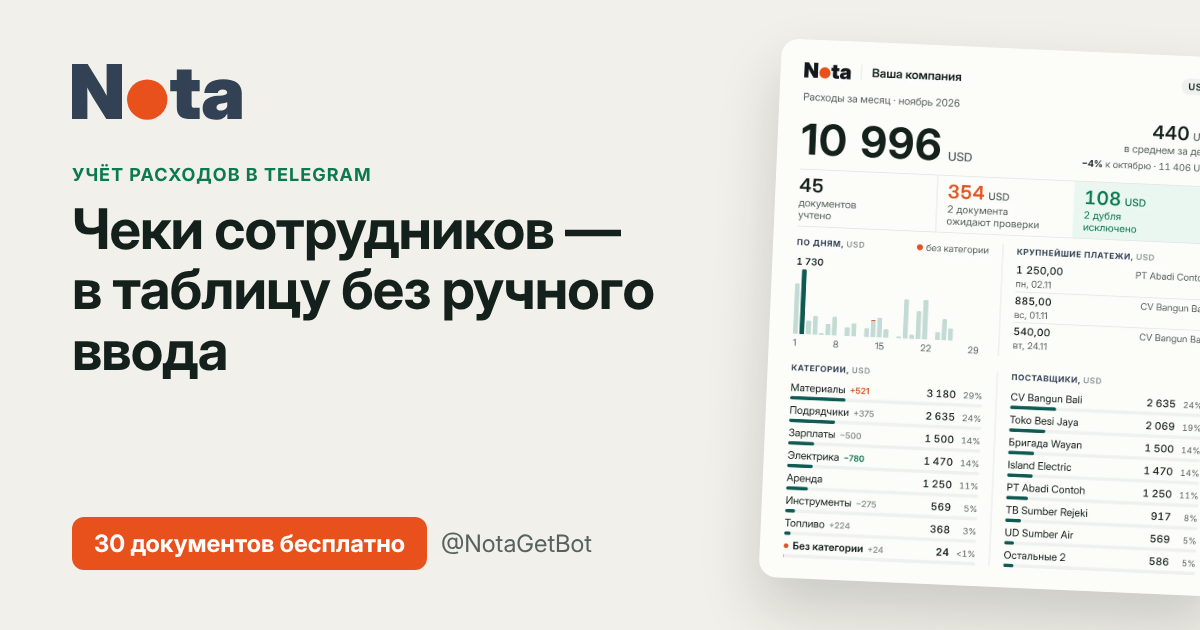
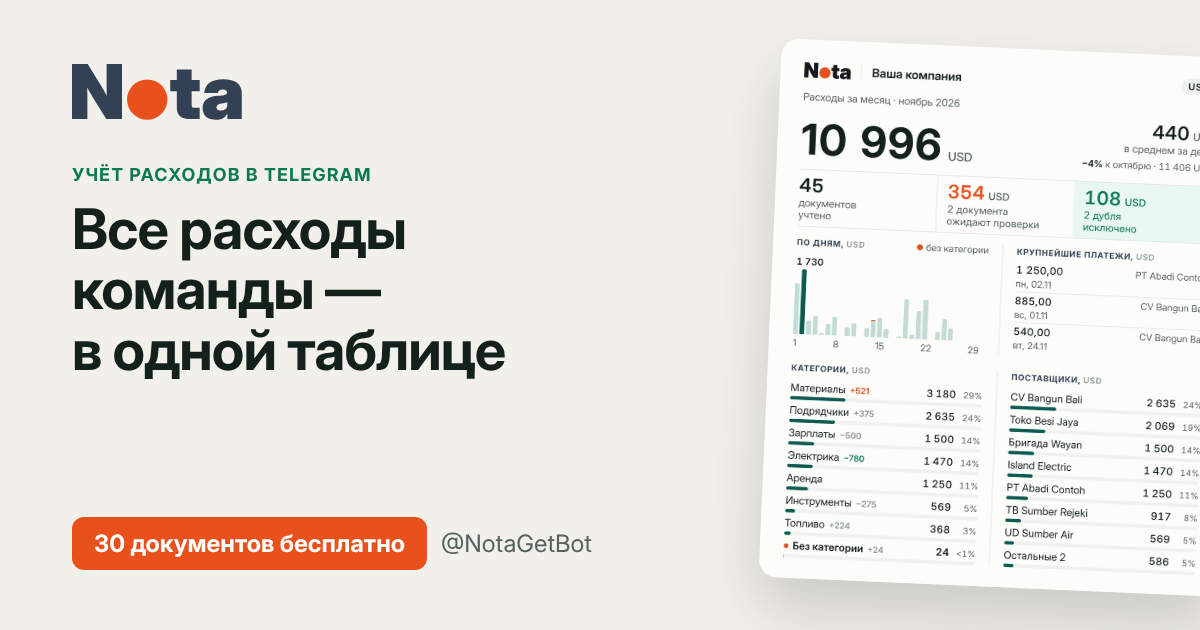
Главная: заголовок «Все расходы команды — в одной таблице», заголовок вкладки и картинка превью
Claude-Session: https://claude.ai/code/session_01L3HhR7LSGwJtypFbeUeh92

Changed region(s): [[0.0617, 0.3317, 0.555, 0.6032]]

diff --git a/nota/src/data/content-v12.ts b/nota/src/data/content-v12.ts
@@ -1,6 +1,6 @@
 // Версия 12 лендинга (22.11): два первых экрана на выбор основателя.
 //   archive — как v11 (первый экран про архив, тексты content-v11.ts);
-//   start   — новый: «Чеки сотрудников — в таблицу без ручного ввода», путь из четырёх строк, отчёт за месяц.
+//   start   — новый: «Все расходы команды — в одной таблице», путь из четырёх строк, отчёт за месяц.
 // Всё ниже блока отчёта у обоих вариантов общее (content-v11.ts). Страницы: / (start, главная с 25.11) и /archive/ (archive).
 // Решения по start — founder/landing-start-sketch (эскиз G), тесты офферов — founder/panel-offer-compare.md,
 // разбор по Impeccable — founder/landing-v12-notes.md.
@@ -10,16 +10,16 @@ import { steps, compare, data, faq, what } from './content-v11';
 export const start = {
   // Заголовок вкладки, описание для поиска и превью ссылки — по утверждённому первому экрану (25.11: новый вариант стал главной)
   meta: {
-    title: 'Nota — чеки сотрудников в Google-таблицу без ручного ввода',
+    title: 'Nota — все расходы команды в одной Google-таблице',
     description: 'Учёт расходов в Telegram. Присылайте чеки, счета и накладные лично, архивом или в рабочей группе: Nota проверит расчёты, найдёт дубли и запишет всё в вашу Google-таблицу. Отчёты каждую неделю и месяц. 30 документов бесплатно.',
-    ogAlt: 'Nota: чеки сотрудников — в таблицу без ручного ввода. Пример отчёта за месяц: 10 996 долларов, 2 дубля исключены',
+    ogAlt: 'Nota: все расходы команды — в одной таблице. Пример отчёта за месяц: 10 996 долларов, 2 дубля исключены',
     og: '/og-v12.png',
   },
   // Основатель 22.11: «Учёт расходов в Telegram» — неудачный заголовок, уходит в надзаголовок; заголовок — «чеки, таблица, проверено»
   eyebrow: 'Учёт расходов в Telegram',
-  // 22.11, основатель: одинокое «Проверено.» читается неоднозначно; проверку объясняет шаг 2
-  title: 'Чеки сотрудников\u00a0— в\u00a0таблицу без\u00a0ручного\u00a0ввода',
-  underline: 'без\u00a0ручного\u00a0ввода',
+  // 25.11, основатель: «Чеки сотрудников — в таблицу без ручного ввода» непонятно о чём; заголовок говорит, что получает владелец
+  title: 'Все расходы команды\u00a0— в\u00a0одной таблице',
+  underline: 'в\u00a0одной таблице',
   cta: 'Начать бесплатно',
   // 22.11, основатель: первый экран был перегружен (кружки, пунктир, метки, ✍, заливка «Готово»), но путь хороший —
   // оставить путь и описать понятнее. Стало: три строки одного вида (1, 2, «Готово»), одна линия, два стиля текста.

diff --git a/founder/landing-v12-notes.md b/founder/landing-v12-notes.md
@@ -7,7 +7,7 @@
 25.11 (основатель): главная — новый вариант v12 (`nota/src/pages/index.astro`), вариант с архивом — отдельная страница `/archive/` (`nota/src/pages/archive.astro`), закрыта от поисковиков. Страницы `/v12/` и `/v12/archive/` убраны. Сайт на домен не выкладывался.
 
 - Метки ссылок на бота: `land12s_*` на главной, `land12a_*` на `/archive/`.
-- У главной свой заголовок вкладки, описание и картинка для превью ссылки (`nota/public/og-v12.png`, «Чеки сотрудников — в таблицу без ручного ввода», отчёт за месяц в долларах). У `/archive/` прежние, про архив (`og-v10.png`).
+- У главной свой заголовок вкладки, описание и картинка для превью ссылки (`nota/public/og-v12.png`, «Все расходы команды — в одной таблице», отчёт за месяц в долларах). У `/archive/` прежние, про архив (`og-v10.png`).
 - Пока не задана переменная `PUBLIC_INDEX=1`, все страницы закрыты от поисковиков. С ней открыта только главная: документы, `/archive/` и оплата остаются закрытыми.
 - Снимки: `founder/landing-v12-shots/`.
 
@@ -16,7 +16,7 @@
 Код: `nota/src/components/Landing.astro` (ветка `isStart`), тексты: `nota/src/data/content-v12.ts`, стили: конец `nota/src/styles/global.css` (всё внутри `.v12s`).
 
 - **Надзаголовок:** «Учёт расходов в Telegram».
-- **Заголовок:** «Чеки сотрудников — в таблицу без ручного ввода», подчёркнуто «без ручного ввода». Было «…в таблицу. Проверено.»: основатель 22.11 — одинокое «Проверено» читается неоднозначно (можно понять как «проверил бухгалтер» или «цена честная»); проверку объясняет шаг 2.
+- **Заголовок:** «Все расходы команды — в одной таблице», подчёркнуто «в одной таблице» (основатель 25.11). Было «Чеки сотрудников — в таблицу без ручного ввода» — «свежим взглядом непонятно о чём»: говорило, куда попадает чек, а не что получает владелец. До того — «…в таблицу. Проверено.» (22.11: одинокое «Проверено» неоднозначно).
 - **Первый экран — путь из четырёх строк** (основатель 22.11: было перегружено, но путь хороший — оставить и описать понятнее):
   1. «Присылайте документы лично, архивом или в рабочей группе» — «Чеки, счета, накладные от руки — любые документы, где есть дата, сумма и описание».
   2. «Nota проверит расчёты, найдёт дубли и ошибки» — «Неразборчивое не угадывает, а отмечает для проверки».
